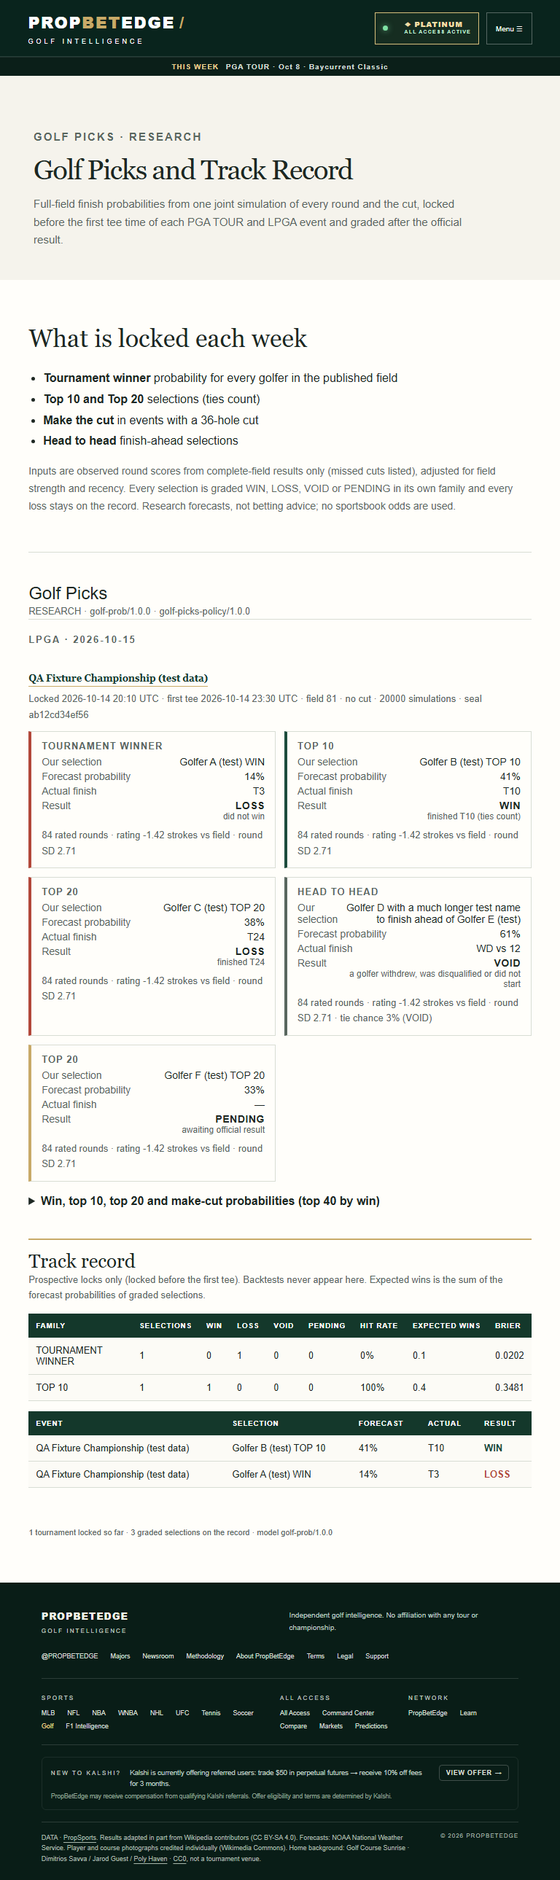
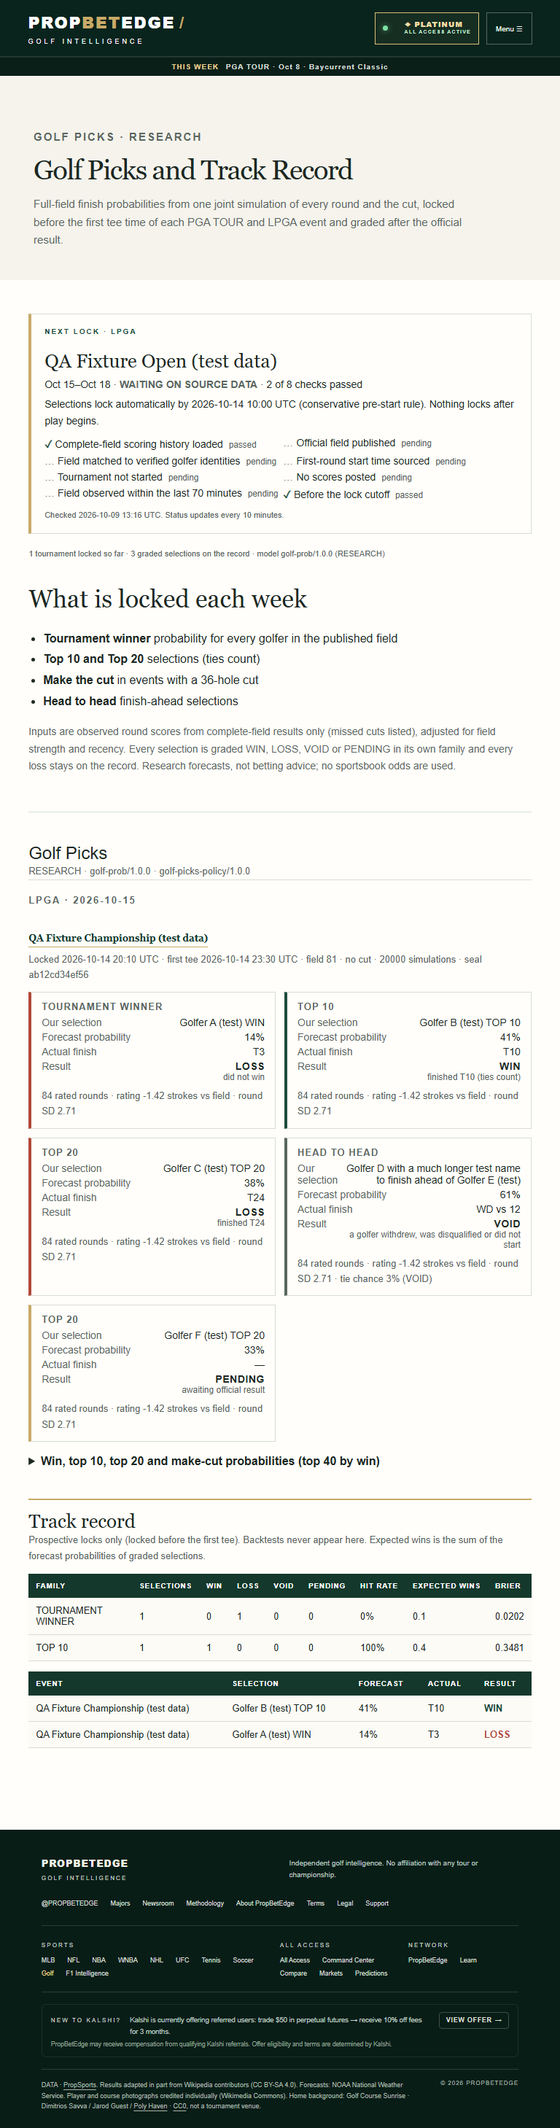
Golf Picks: automated readiness (one shared gate), master switch on, public readiness + resolved results
- workers/shared/picks/gate.js: the ONLY gate implementation (lock step, health, admin gate route,
  public readiness): published (>=30) and mapped (>=60%) field, sourced R1 tee time or the frozen
  conservative rule, pre-start, no scores, fresh snapshot, before cutoff, model store complete.
- PICKS_ENABLED=1 is the master kill switch; each event locks only when the gate passes, else HOLD.
- /v1/picks/preview (public): next-event readiness in plain language + RESOLVED graded results only;
  locked unresolved selections and probability tables stay All Access (no-store).
- /picks shows readiness to everyone; members also see selections once locked.
- QA: 'SIMULATED membership' naming; 7-width screenshots refreshed.

Changed region(s): [[0.0, 0.1551, 1.0, 0.9926], [0.0, 0.0, 1.0, 0.1241]]

diff --git a/tests/browser/picks.spec.js b/tests/browser/picks.spec.js
@@ -9,29 +9,32 @@ const item={edition:{slug:'qa-fixture-edition',name:'QA Fixture Championship (te
  probabilities:Array.from({length:12},(_,i)=>({slug:'qa-golfer-'+i,name:'Golfer '+i+' (test)',win:0.14/(i+1),top10:0.5/(1+i*0.2),top20:0.7/(1+i*0.15),make_cut:null,rounds_rated:40+i}))};
 const record={families:[{family:'winner',label:'TOURNAMENT WINNER',selections:1,WIN:0,LOSS:1,VOID:0,PENDING:0,hit_rate:0,expected_wins:0.1,brier:0.0202},{family:'top10',label:'TOP 10',selections:1,WIN:1,LOSS:0,VOID:0,PENDING:0,hit_rate:1,expected_wins:0.4,brier:0.3481}],
  rows:[{edition_name:'QA Fixture Championship (test data)',name:'Golfer B (test)',family:'top10',proposition:'TOP 10',p:0.41,actual:'T10',grade:'WIN'},{edition_name:'QA Fixture Championship (test data)',name:'Golfer A (test)',family:'winner',proposition:'WIN',p:0.142,actual:'T3',grade:'LOSS'}]};
+const PREVIEW={availability:'available',model:'golf-prob/1.0.0',label:'RESEARCH',tournaments_locked:1,selections_graded:3,resolved:[{edition:'QA Fixture Championship (test data)',family:'top10',proposition:'TOP 10',name:'Golfer B (test)',p:0.41,actual:'T10',grade:'WIN'}],
+ readiness:{state:'NOT_READY',edition:{name:'QA Fixture Open (test data)',starts_on:'2026-10-15',ends_on:'2026-10-18',tour:'LPGA'},checked_at:'2026-10-09T13:16:53Z',expected_lock_by:'2026-10-14T10:00:00.000Z',start_basis:'conservative pre-start rule',first_tee:null,
+  checks:[['Complete-field scoring history loaded',true],['Official field published',false],['Field matched to verified golfer identities',false],['First-round start time sourced',false],['Tournament not started',false],['No scores posted',false],['Field observed within the last 70 minutes',false],['Before the lock cutoff',true]].map(([label,ok],i)=>({key:'k'+i,label,ok}))}};
 async function asMember(page){
  await page.route('**/api/v1/membership',r=>r.fulfill({json:{membership:{contract:'1.4.0',sport:'golf',state:'all_access',entitled:true,access_source:'all_access'},verification:'network'}}));
  await page.route('**/api/v1/picks/track-record',r=>r.fulfill({json:{availability:'available',record}}));
- await page.route('**/api/v1/picks/preview',r=>r.fulfill({json:{availability:'available',tournaments_locked:1,selections_graded:3,model:'golf-prob/1.0.0'}}));
+ await page.route('**/api/v1/picks/preview',r=>r.fulfill({json:PREVIEW}));
  await page.route('**/api/v1/picks',r=>r.fulfill({json:{availability:'available',label:'RESEARCH',model:'golf-prob/1.0.0',policy:'golf-picks-policy/1.0.0',items:[item]}}));
 }
 test('static /picks HTML carries no selection or probability',async({request})=>{const h=await (await request.get('/picks')).text();expect(h).not.toMatch(/pk-card|Forecast probability|qa-golfer/);expect(h).toMatch(/noindex/);});
 for(const width of WIDTHS){
  test(`picks guest ${width}: lock only, no values`,async({page})=>{
   await page.route('**/api/v1/membership',r=>r.fulfill({json:{membership:{sport:'golf',state:'free',entitled:false},verification:'no_session'}}));
-  await page.route('**/api/v1/picks/preview',r=>r.fulfill({json:{availability:'available',tournaments_locked:0,selections_graded:0}}));
+  await page.route('**/api/v1/picks/preview',r=>r.fulfill({json:{...PREVIEW,tournaments_locked:0,selections_graded:0,resolved:[]}}));
   await page.setViewportSize({width,height:900});await page.goto('/picks',{waitUntil:'networkidle'});
   await expect(page.locator('[data-premium="picks"] .premium-status')).toBeVisible();await expect(page.locator('.pk-card')).toHaveCount(0);
   expect(await page.evaluate(()=>document.documentElement.scrollWidth<=innerWidth)).toBe(true);expect(await page.locator('[style]').count()).toBe(0);
   await page.screenshot({path:`../qa-shots/picks-guest-${width}.png`,fullPage:true});
  });
- test(`picks member ${width}: selection / probability / actual / result, record, axe`,async({page})=>{
+ test(`picks SIMULATED membership ${width}: selection / probability / actual / result, record, axe`,async({page})=>{
   const errors=[];page.on('pageerror',e=>errors.push(e.message));
   await asMember(page);await page.setViewportSize({width,height:900});await page.goto('/picks',{waitUntil:'networkidle'});
   await expect(page.locator('.pk-card')).toHaveCount(5);
   const first=page.locator('.pk-card').nth(1);for(const t of ['Our selection','Forecast probability','Actual finish','Result'])await expect(first).toContainText(t);
   await expect(first).toContainText('41%');await expect(first).toContainText('T10');await expect(first).toContainText('WIN');
-  await expect(page.locator('.pk-record')).toContainText('TOURNAMENT WINNER');await expect(page.locator('.pk-preview')).toContainText('1 tournament locked');
+  await expect(page.locator('.pk-record:not(.pk-resolved)')).toContainText('TOURNAMENT WINNER');await expect(page.locator('.pk-preview')).toContainText('1 tournament locked');await expect(page.locator('.pk-ready')).toBeVisible();
   const ov=await page.evaluate(()=>({s:document.documentElement.scrollWidth,w:innerWidth}));expect(ov.s<=ov.w,JSON.stringify(ov)).toBe(true);
   expect(await page.locator('[style]').count()).toBe(0);expect(errors).toEqual([]);
   const axe=await new AxeBuilder({page}).withTags(['wcag2a','wcag2aa','wcag21aa']).analyze();expect(axe.violations.map(v=>v.id+': '+v.nodes.slice(0,2).map(n=>n.target).join(' | '))).toEqual([]);

diff --git a/src/lib/picks-ui.js b/src/lib/picks-ui.js
@@ -8,17 +8,34 @@ const GRADE_CLASS={WIN:'pk-win',LOSS:'pk-loss',VOID:'pk-void',PENDING:'pk-pendin
 export function picksPage(){
  return `<section class="page-heading data-heading"><div><p class="eyebrow">GOLF PICKS · RESEARCH</p><h1>Golf Picks and Track Record</h1><p>Full-field finish probabilities from one joint simulation of every round and the cut, locked before the first tee time of each PGA TOUR and LPGA event and graded after the official result.</p></div></section>
 <div class="page-body data-body picks-page">
+<div data-picks-preview></div>
 <section class="data-section"><h2>What is locked each week</h2>
 <ul class="pk-families"><li><b>Tournament winner</b> probability for every golfer in the published field</li><li><b>Top 10 and Top 20</b> selections (ties count)</li><li><b>Make the cut</b> in events with a 36-hole cut</li><li><b>Head to head</b> finish-ahead selections</li></ul>
 <p class="gnote">Inputs are observed round scores from complete-field results only (missed cuts listed), adjusted for field strength and recency. Every selection is graded WIN, LOSS, VOID or PENDING in its own family and every loss stays on the record. Research forecasts, not betting advice; no sportsbook odds are used.</p></section>
 <div class="premium-lock" data-premium="picks"><span class="lock-mark" aria-hidden="true">◆</span><div><h3>This week’s selections and the full track record</h3><p>Selections, probabilities, actual finishes and grades are included with PropBetEdge All Access.</p><p class="premium-status" role="status">Included with PropBetEdge All Access.</p><a class="button button-gold" href="/all-access">All Access details</a></div></div>
-<div data-picks-preview></div>
 </div>`;
 }
-// Public preview (counts only, from /api/v1/picks/preview). Rendered only when there is something to say.
+// Public view (from /api/v1/picks/preview): readiness of the next supported tournament and resolved results.
+// Only real status facts render; when the API has nothing to say the slot is removed (no empty-state filler).
+const day=d=>d?new Date(d+'T12:00:00Z').toLocaleDateString('en-US',{month:'short',day:'numeric',timeZone:'UTC'}):'';
+export function readinessHtml(r){
+ if(!r?.edition)return '';
+ const done=r.checks.filter(c=>c.ok).length;
+ return `<section class="pk-ready" aria-labelledby="pk-ready-h"><p class="eyebrow">NEXT LOCK · ${e(r.edition.tour||'')}</p><h2 id="pk-ready-h">${e(r.edition.name)}</h2>
+<p class="pk-ready-meta">${e(day(r.edition.starts_on))}${r.edition.ends_on?'–'+e(day(r.edition.ends_on)):''} · <b class="${r.state==='READY'?'pk-win':'pk-pending'}">${r.state==='READY'?'READY TO LOCK':'WAITING ON SOURCE DATA'}</b> · ${done} of ${r.checks.length} checks passed</p>
+<p class="pk-ready-meta">Selections lock automatically by ${e(fmt(r.expected_lock_by))} (${e(r.start_basis)}${r.first_tee?`: ${e(fmt(r.first_tee))}`:''}). Nothing locks after play begins.</p>
+<ul class="pk-checks">${r.checks.map(c=>`<li class="${c.ok?'ok':'wait'}"><span aria-hidden="true">${c.ok?'✓':'…'}</span> ${e(c.label)} <small>${c.ok?'passed':'pending'}</small></li>`).join('')}</ul>
+<p class="gnote">Checked ${e(fmt(r.checked_at))}. Status updates every 10 minutes.</p></section>`;
+}
+export function resolvedHtml(rows){
+ if(!rows?.length)return '';
+ return `<section class="pk-record pk-resolved"><h2>Resolved results</h2><p class="gnote">Every graded selection from locked tournaments, losses included. Research forecasts, not betting advice.</p><div class="table-wrap" tabindex="0" role="region" aria-label="Resolved results"><table class="index-table"><thead><tr><th>Event</th><th>Selection</th><th>Forecast</th><th>Actual</th><th>Result</th></tr></thead><tbody>${rows.map(r=>`<tr><td>${e(r.edition)}</td><td>${e(r.name)} ${e(r.family==='h2h'?'ahead of '+(r.opponent||''):r.proposition)}</td><td>${pct(r.p)}</td><td>${e(r.actual||'—')}</td><td><b class="${GRADE_CLASS[r.grade]||''}">${e(r.grade)}</b></td></tr>`).join('')}</tbody></table></div></section>`;
+}
 export function picksPreviewHtml(p){
- if(!p||!p.tournaments_locked)return '';
- return `<p class="gnote pk-preview">${e(p.tournaments_locked)} tournament${p.tournaments_locked===1?'':'s'} locked so far · ${e(p.selections_graded)} graded selection${p.selections_graded===1?'':'s'} on the record · model ${e(p.model)}</p>`;
+ if(!p)return '';
+ const parts=[readinessHtml(p.readiness),resolvedHtml(p.resolved)];
+ if(p.tournaments_locked)parts.push(`<p class="gnote pk-preview">${e(p.tournaments_locked)} tournament${p.tournaments_locked===1?'':'s'} locked so far · ${e(p.selections_graded)} graded selection${p.selections_graded===1?'':'s'} on the record · model ${e(p.model)} (RESEARCH)</p>`);
+ return parts.join('');
 }
 function selectionCard(s){
  const prop=s.family==='h2h'?`${e(s.name)} to finish ahead of ${e(s.opponent?.name||'')}`:`${e(s.name)} ${e(s.proposition)}`;

diff --git a/workers/shared/picks/gate.js b/workers/shared/picks/gate.js
@@ -1,0 +1,52 @@
+// Golf Picks lock gate: ONE implementation shared by the golf-ingest lock step, the health record, the admin
+// gate route (scripts/picks-gate.mjs) and the public readiness view. Pure: no I/O.
+// An event locks only when every check passes. Nothing locks after play begins.
+import {firstTee} from '../live.js';
+export const LOCK_MARGIN_MS=30*60000,SNAPSHOT_MAX_AGE_MS=70*60000,CONSERVATIVE_LEAD_MS=14*3600000,MIN_FIELD=30,MIN_MAPPED=0.6;
+// Plain-language labels for the public readiness panel.
+export const CHECK_LABEL={
+ model_store_complete:'Complete-field scoring history loaded',
+ field_published:'Official field published',
+ field_mapped:'Field matched to verified golfer identities',
+ start_time_sourced:'First-round start time sourced',
+ pre_start:'Tournament not started',
+ no_scores_posted:'No scores posted',
+ snapshot_fresh:'Field observed within the last 70 minutes',
+ before_lock_cutoff:'Before the lock cutoff'};
+const OUT=new Set(['withdrawn','disqualified','dns']);
+export function evaluateGate({snap,edition,now=new Date(),storeComplete=true}){
+ const t=now.getTime(),active=(snap?.players||[]).filter(p=>!OUT.has(p.status)),mapped=active.filter(p=>p.slug).length;
+ const ft=snap?firstTee(snap,1):null;
+ // Start basis: the first sourced R1 tee time; without one, the frozen conservative rule (earliest possible local
+ // midnight of the start date, UTC+14). Lock cutoff = basis - 30 min (tee) or the conservative instant itself.
+ const rule=ft?'first_sourced_tee_time_minus_30m':'conservative_utc_plus_14_midnight';
+ const cutoff=ft?Date.parse(ft)-LOCK_MARGIN_MS:edition?.starts_on?Date.parse(edition.starts_on+'T00:00:00Z')-CONSERVATIVE_LEAD_MS:null;
+ const scored=active.some(p=>(Number.isInteger(p.thru)&&p.thru>0)||(p.rounds||[]).some(r=>r.strokes!==null&&r.strokes!==undefined));
+ const checks={
+  model_store_complete:{ok:Boolean(storeComplete),value:storeComplete},
+  field_published:{ok:active.length>=MIN_FIELD,value:active.length},
+  field_mapped:{ok:active.length>0&&mapped/active.length>=MIN_MAPPED,value:active.length?Math.round(mapped/active.length*100)/100:0},
+  start_time_sourced:{ok:Boolean(ft)||(Boolean(snap)&&cutoff!==null),value:ft||(snap?'conservative pre-start rule':null)},
+  pre_start:{ok:snap?.event_status?.state==='pre'&&!snap?.event_status?.completed,value:snap?.event_status?.name||null},
+  no_scores_posted:{ok:Boolean(snap)&&!scored,value:snap?!scored:null},
+  snapshot_fresh:{ok:Boolean(snap)&&t-Date.parse(snap.fetched_at)<=SNAPSHOT_MAX_AGE_MS,value:snap?.fetched_at||null},
+  before_lock_cutoff:{ok:cutoff!==null&&t<=cutoff,value:cutoff!==null?new Date(cutoff).toISOString():null}};
+ const failing=Object.entries(checks).filter(([,c])=>!c.ok).map(([k])=>k);
+ return {state:failing.length?'NOT_READY':'READY',checks,failing,rule,first_tee:ft,cutoff:cutoff!==null?new Date(cutoff).toISOString():null,checked_at:now.toISOString()};
+}
+// Lock-step view of the same gate (reason = the most fundamental failing check).
+const ORDER=['field_snapshot','snapshot_fresh','pre_start','no_scores_posted','before_lock_cutoff','field_published','field_mapped','model_store_complete','start_time_sourced'];
+const REASON={snapshot_fresh:'snapshot_stale',pre_start:'event_not_pre_start',no_scores_posted:'scores_posted',field_published:'field_not_published',field_mapped:'field_not_mapped',model_store_complete:'model_store_incomplete',start_time_sourced:'start_time_not_sourced'};
+export function lockDecision(g,snap){
+ if(!snap)return {ok:false,reason:'no_field_snapshot'};
+ if(g.state==='READY')return {ok:true,rule:g.rule,deadline:g.cutoff,first_tee:g.first_tee};
+ const k=ORDER.find(x=>g.failing.includes(x));
+ const reason=k==='before_lock_cutoff'?(g.first_tee?'past_lock_deadline':'hold_no_tee_time_after_conservative_deadline'):REASON[k]||k;
+ return {ok:false,reason,first_tee:g.first_tee};
+}
+// Public readiness (no golfer, selection or probability).
+export function readinessView(g,edition){
+ if(!g||!edition)return null;
+ return {state:g.state,edition:{name:edition.name,starts_on:edition.starts_on,ends_on:edition.ends_on||null,tour:edition.tour||null},checked_at:g.checked_at,expected_lock_by:g.cutoff,start_basis:g.first_tee?'first sourced round-one tee time':'conservative pre-start rule',first_tee:g.first_tee,
+  checks:Object.entries(g.checks).map(([k,c])=>({key:k,label:CHECK_LABEL[k]||k,ok:c.ok}))};
+}

diff --git a/workers/golf-ingest/src/picks-health.js b/workers/golf-ingest/src/picks-health.js
@@ -2,17 +2,16 @@
 // rewrites or deletes a lock or grade. Runs as a bounded step on the existing golf-ingest full tick (no new cron)
 // and records to KV picks:health:v1 + private R2 picks/v1/health/latest.json. No alert channel is bound in this
 // repo, so a FAIL is recorded and surfaced (admin + aggregate on /health); it is not pushed anywhere.
-import {firstTee} from '../../shared/live.js';
+import {evaluateGate} from '../../shared/picks/gate.js';
 import {PREFIX,lockKey,listKeys,getJSON,verifySeal,sha256,canonical} from '../../shared/picks/ledger.js';
 import {formatExcluded} from '../../shared/picks/policy.js';
-import {resultFrom,STORE_KEY,LOCK_MARGIN_MS,SNAPSHOT_MAX_AGE_MS} from './picks.js';
+import {resultFrom,STORE_KEY} from './picks.js';
 import {DAY} from '../../shared/picks/model.js';
 export const HEALTH_KEY='picks:health:v1',STATUS_KEY='picks:status:v1';
 const pj=(b,k)=>b.get(k).then(o=>o?o.json():null).catch(()=>null);
 const slugsOf=keys=>keys.map(k=>k.slice((PREFIX+'locks/').length,-5));
 
-// READY only when: field published (>=30 active), >=60% mapped to canonical golfers, a sourced R1 tee time exists,
-// event pre-start with no posted scores, snapshot fresh, now before first tee - 30 min, model store complete.
+// Next eligible edition + the shared gate (same implementation as the lock step).
 export async function gateCheck(env,now=new Date()){
  const t=now.getTime(),ix=await pj(env.PUBLIC,'projection/v2/index.json');if(!ix)return {state:'NOT_READY',reason:'projection_unavailable'};
  const locked=new Set(slugsOf(await listKeys(env.RAW,PREFIX+'locks/')));
@@ -21,20 +20,9 @@ export async function gateCheck(env,now=new Date()){
  const store=await getJSON(env.RAW,STORE_KEY),want=ix.editions.filter(e=>e.coverage==='full_field'&&e.status==='completed'&&e.ends_on&&Date.parse(e.ends_on)+DAY<t);
  const have=new Set([...(store?.editions||[]).map(e=>e.slug),...(store?.skipped||[])]);
  const snap=await pj(env.PUBLIC,'live/v1/events/'+next.slug+'.json');
- const active=(snap?.players||[]).filter(p=>!['withdrawn','disqualified','dns'].includes(p.status));
- const mapped=active.filter(p=>p.slug).length,ft=snap?firstTee(snap,1):null,cutoff=ft?Date.parse(ft)-LOCK_MARGIN_MS:null;
- const scored=active.some(p=>(Number.isInteger(p.thru)&&p.thru>0)||(p.rounds||[]).some(r=>r.strokes!==null&&r.strokes!==undefined));
- const checks={
-  model_store_complete:{ok:Boolean(store)&&want.every(e=>have.has(e.slug)),value:`${have.size}/${want.length}`},
-  field_published:{ok:active.length>=30,value:active.length},
-  field_mapped:{ok:active.length>0&&mapped/active.length>=0.6,value:active.length?Math.round(mapped/active.length*100)/100:0},
-  first_tee_sourced:{ok:Boolean(ft),value:ft},
-  pre_start:{ok:snap?.event_status?.state==='pre'&&!snap?.event_status?.completed,value:snap?.event_status?.name||null},
-  no_scores_posted:{ok:Boolean(snap)&&!scored,value:!scored},
-  snapshot_fresh:{ok:Boolean(snap)&&t-Date.parse(snap.fetched_at)<=SNAPSHOT_MAX_AGE_MS,value:snap?.fetched_at||null},
-  before_lock_cutoff:{ok:cutoff!==null&&t<=cutoff,value:cutoff?new Date(cutoff).toISOString():null}};
- const ready=Object.values(checks).every(c=>c.ok);
- return {state:ready?'READY':'NOT_READY',checked_at:now.toISOString(),edition:{slug:next.slug,name:next.name,starts_on:next.starts_on},checks,failing:Object.entries(checks).filter(([,c])=>!c.ok).map(([k])=>k)};
+ const g=evaluateGate({snap,edition:next,now,storeComplete:Boolean(store)&&want.every(e=>have.has(e.slug))});
+ g.checks.model_store_complete.value=`${have.size}/${want.length}`;
+ return {...g,edition:{slug:next.slug,name:next.name,starts_on:next.starts_on,ends_on:next.ends_on||null,tour:next.tour?.short||next.tours?.[0]||null}};
 }
 
 // Ledger integrity: every lock re-hashed from its STORED BYTES, locked before its sourced start, graded after the

diff --git a/workers/golf-ingest/src/picks.js b/workers/golf-ingest/src/picks.js
@@ -5,27 +5,15 @@
 import {compactEdition,cutApplied,RatingBook,byEnd,fieldModel,PARAMS,MODEL_VERSION,DAY} from '../../shared/picks/model.js';
 import {forecast,POLICY_VERSION,GRADE_VERSION,formatExcluded} from '../../shared/picks/policy.js';
 import {lockKey,gradeKey,INDEX_KEY,PREFIX,seal,createOnly,getJSON,listKeys,gradeRevision,joinLock,trackRecord,sha256,canonical,LEDGER_VERSION} from '../../shared/picks/ledger.js';
-import {firstTee} from '../../shared/live.js';
+import {evaluateGate,lockDecision,LOCK_MARGIN_MS,SNAPSHOT_MAX_AGE_MS,CONSERVATIVE_LEAD_MS} from '../../shared/picks/gate.js';
+export {LOCK_MARGIN_MS,SNAPSHOT_MAX_AGE_MS,CONSERVATIVE_LEAD_MS};
 export const STORE_KEY=PREFIX+'model/editions.json';
 const STATUS_KEY='picks:status:v1';
-export const LOCK_MARGIN_MS=30*60000,SNAPSHOT_MAX_AGE_MS=70*60000,CONSERVATIVE_LEAD_MS=14*3600000;
 const pj=(b,k)=>b.get(k).then(o=>o?o.json():null).catch(()=>null);
 
-// Pre-start proof from one observed snapshot. Returns {ok, rule, deadline, first_tee, reason}.
-export function lockGate(snap,edition,now){
- const t=now.getTime();
- if(!snap)return {ok:false,reason:'no_field_snapshot'};
- if(t-Date.parse(snap.fetched_at)>SNAPSHOT_MAX_AGE_MS)return {ok:false,reason:'snapshot_stale'};
- const st=snap.event_status||{};
- if(st.state!=='pre'||st.completed)return {ok:false,reason:'event_not_pre_start'};
- const scored=(snap.players||[]).some(p=>(Number.isInteger(p.thru)&&p.thru>0)||(p.rounds||[]).some(r=>r.strokes!==null&&r.strokes!==undefined));
- if(scored)return {ok:false,reason:'scores_posted'};
- const ft=firstTee(snap,1);
- if(ft){const d=Date.parse(ft)-LOCK_MARGIN_MS;return t<=d?{ok:true,rule:'first_sourced_tee_time_minus_30m',deadline:new Date(d).toISOString(),first_tee:ft}:{ok:false,reason:'past_lock_deadline',first_tee:ft};}
- // No sourced tee time: freeze before the earliest possible local midnight of the start date (UTC+14), else HOLD.
- const d=Date.parse(edition.starts_on+'T00:00:00Z')-CONSERVATIVE_LEAD_MS;
- return t<=d?{ok:true,rule:'conservative_utc_plus_14_midnight',deadline:new Date(d).toISOString(),first_tee:null}:{ok:false,reason:'hold_no_tee_time_after_conservative_deadline'};
-}
+// Pre-start proof: the shared gate (workers/shared/picks/gate.js) is the ONLY implementation; the lock step,
+// health record, admin gate route and public readiness all evaluate the same checks.
+export function lockGate(snap,edition,now,storeComplete=true){return lockDecision(evaluateGate({snap,edition,now,storeComplete}),snap);}
 
 async function refreshStore(env,ix,{limit=40}={}){
  const store=await getJSON(env.RAW,STORE_KEY)||{schema:'golf-picks-model-store/1',editions:[]};

diff --git a/src/main.ts b/src/main.ts
@@ -118,13 +118,13 @@ async function premium(){
   if(mod==='player-dna'&&parts[0]==='player')path='player-dna/'+parts[1];else if(mod==='course-fit'&&parts[0]==='course')path='course-dna/'+parts[1];else if(mod==='field'&&parts[0]==='tournament')path='field/'+parts[1];else if(mod==='matchups'&&parts[0]==='matchups')path='matchups/'+parts[1]+'/'+parts[2];
   if(mod==='picks'){const [p,t]=await Promise.all([api('picks').then(r=>r.ok?r.json():null).catch(()=>null),api('picks/track-record').then(r=>r.ok?r.json():null).catch(()=>null)]);
    if(!p){const s=$('.premium-status',l);if(s)s.textContent=lockStatus(accessView(mem,{failed:false}));continue;}
-   const html=picksMember(p)+trackRecordMember(t?.record);if(!html){l.remove();continue;}l.classList.add('unlocked','picks-unlocked');l.innerHTML=html;continue;}
+   const html=picksMember(p)+trackRecordMember(t?.record);if(!html){l.remove();continue;}l.classList.add('unlocked','picks-unlocked');l.innerHTML=html;document.querySelectorAll('.pk-resolved').forEach(x=>x.remove());document.documentElement.dataset.picksMember='1';continue;}
   if(!path)continue;const r=await api('intelligence/'+path).then(r=>r.ok?r.json():null).catch(()=>null);if(!r?.data){const s=$('.premium-status',l);if(s)s.textContent='All Access verified. Not enough comparable sample for this module.';continue;}
   if(mod==='player-dna'){fillRaw(document,r.data.dna,'data-raw');mountDnaWindows(r.data.dna);}if(mod==='matchups'){fillRaw(document,r.data.a?.dna,'data-raw-a');fillRaw(document,r.data.b?.dna,'data-raw-b');}
   l.classList.add('unlocked');l.innerHTML=mod==='player-dna'?premiumDna(r.data):mod==='course-fit'?premiumFit(r.data):mod==='field'?premiumField(r.data):premiumMatchup(r.data);}
 }
 premium();
-{const pv=$('[data-picks-preview]');if(pv)api('picks/preview').then(r=>r.ok?r.json():null).then(p=>{const h=picksPreviewHtml(p);if(h)pv.innerHTML=h;else pv.remove();}).catch(()=>pv.remove());}
+{const pv=$('[data-picks-preview]');if(pv)api('picks/preview').then(r=>r.ok?r.json():null).then(p=>{const h=picksPreviewHtml(document.documentElement.dataset.picksMember?{...p,resolved:[]}:p);if(h)pv.innerHTML=h;else pv.remove();}).catch(()=>pv.remove());}
 // All Access: both DNA windows exist only after server-side verification, so the toggle appears only then. Switching
 // re-renders the radar, cards, dimension rows, cohort context and raw values for that window (never mixed).
 function mountDnaWindows(dna:any){

diff --git a/workers/shared/picks/views.js b/workers/shared/picks/views.js
@@ -1,8 +1,15 @@
-// Public Golf Picks preview: counts and dates only. No golfer, selection, probability or grade per selection.
+// Public Golf Picks view (owner, 2026-10-09): readiness of the next supported tournament + RESOLVED results only.
+// A selection is public only after it is graded WIN / LOSS / VOID; locked-but-unresolved selections and every
+// probability table stay All Access only.
 import {FAMILY_LABEL,FAMILIES} from './policy.js';
 import {MODEL_VERSION} from './model.js';
-export function picksPreview(items){
- const graded=items.flatMap(i=>i.selections).filter(s=>s.grade==='WIN'||s.grade==='LOSS').length;
- return {availability:'available',model:MODEL_VERSION,label:'RESEARCH',families:FAMILIES.map(f=>FAMILY_LABEL[f]),tournaments_locked:items.length,selections_graded:graded,
-  latest:items[0]?{edition:items[0].edition.name,starts_on:items[0].edition.starts_on,locked_at:items[0].locked_at}:null};
+import {readinessView} from './gate.js';
+const RESOLVED=new Set(['WIN','LOSS','VOID']);
+export function picksPreview(items,health){
+ const resolved=[];
+ for(const it of items)for(const s of it.selections)if(RESOLVED.has(s.grade))resolved.push({edition:it.edition.name,starts_on:it.edition.starts_on,family:s.family,family_label:FAMILY_LABEL[s.family],proposition:s.proposition,name:s.name,opponent:s.opponent?.name||null,p:s.p,actual:s.actual||null,grade:s.grade});
+ const g=health?.gate&&health.gate.edition?readinessView(health.gate,health.gate.edition):null;
+ return {availability:'available',model:MODEL_VERSION,label:'RESEARCH',families:FAMILIES.map(f=>FAMILY_LABEL[f]),tournaments_locked:items.length,selections_graded:resolved.filter(r=>r.grade!=='VOID').length,
+  latest:items[0]?{edition:items[0].edition.name,starts_on:items[0].edition.starts_on,locked_at:items[0].locked_at}:null,
+  lane:health?{enabled:Boolean(health.enabled),checked_at:health.checked_at,status:health.status}:null,readiness:g,resolved:resolved.slice(0,200)};
 }

diff --git a/workers/golf-api/src/index.js b/workers/golf-api/src/index.js
@@ -70,7 +70,7 @@ async function route(request,env){
   // server-side verification, always no-store. The public preview carries no golfer, selection or probability.
   if(parts[0]==='picks'){
    const idx=env.PICKS?await env.PICKS.get('picks/v1/index.json').then(o=>o?o.json():null).catch(()=>null):null;
-   if(parts[1]==='preview'&&!parts[2]){const items=idx?.items||[];return json(picksPreview(items));}
+   if(parts[1]==='preview'&&!parts[2]){const items=idx?.items||[];const health=env.PICKS?await env.PICKS.get('picks/v1/health/latest.json').then(o=>o?o.json():null).catch(()=>null):null;return json(picksPreview(items,health));}
    if(parts[1]&&parts[1]!=='track-record')return json({error:'not_found'},404);
    const access=await golfAccess(request,env);
    if(!access.granted)return json({error:'all_access_required',membership:access.membership},403);

diff --git a/src/picks.css b/src/picks.css
@@ -19,3 +19,7 @@
 .pk-probs{margin-top:12px}.pk-probs summary{cursor:pointer;font-weight:700;padding:6px 0}
 .pk-record{border-top:2px solid var(--gold);margin-top:18px;padding-top:14px}.pk-record h2{font:26px var(--serif)}
 .pk-preview{margin-top:10px}
+.pk-ready{border:1px solid var(--line);border-left:4px solid var(--gold);background:var(--paper);padding:16px 18px;margin:18px 0}
+.pk-ready h2{font:26px var(--serif);margin:2px 0 6px}.pk-ready-meta{font-size:14px;margin:4px 0;overflow-wrap:anywhere}
+.pk-checks{list-style:none;padding:0;margin:10px 0;display:grid;gap:6px;grid-template-columns:repeat(auto-fill,minmax(min(100%,260px),1fr))}
+.pk-checks li{font-size:14px}.pk-checks li.ok span{color:var(--pine-2);font-weight:700}.pk-checks li.wait span{color:var(--muted)}.pk-checks small{color:var(--muted);margin-left:4px}
